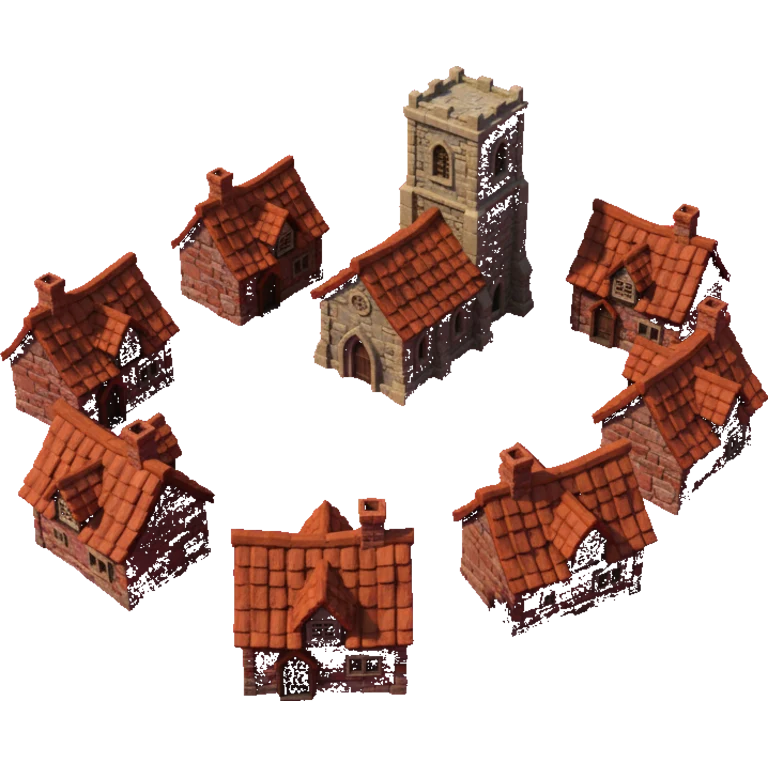
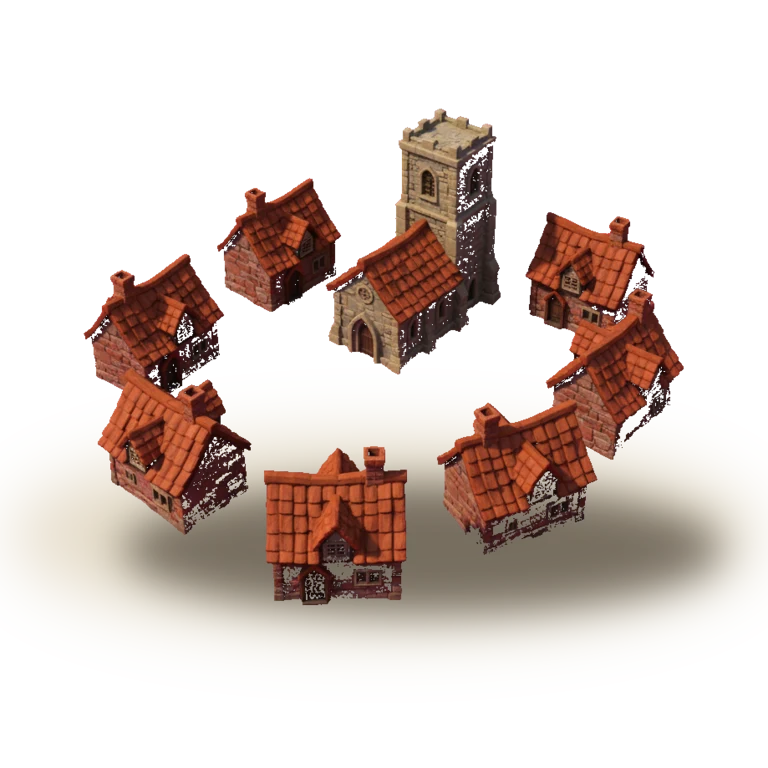
feat(assets): the ground holds its villages down
A place drawn on a painted field floated, and on a slope it looked
pitched. The land now has a lie of its own, lit from over the reader's
left shoulder; each town's ground is levelled so none stands on a
hillside; every link arrives as a pair of cart tracks; and each village
carries its cleared earth and the shadow it throws, fitted to its own
footprint.

diff --git a/tools/map/README.md b/tools/map/README.md
@@ -109,6 +109,27 @@ Before this there was one painting for all twenty-two towns, drawn at the
 width of the card block and faded to 62 %: it read as a grey smudge. A
 place is now wider than the cards it stands behind and drawn at 84 %.
 
+## Anchoring a place
+
+A village drawn straight onto a terrain floats, and on a slope it looks
+pitched. Three things hold it down, all in `compose-canal.sh` except the
+last:
+
+* `RELIEF` lays a height field of our own making — plasma at a coarse
+  grain, blurred into rolling ground — lit from over the reader's left
+  shoulder and applied as `2·shade·land`, which leaves the overall tone
+  where it was. `RELIEF_WEIGHT` is gone; `RELIEF_SPREAD` sets how firmly
+  the ground is felt, `RELIEF_LIGHT` the sun's bearing, `RELIEF_SEED` the
+  hills themselves. Note that ImageMagick's own `soft-light` is not
+  Photoshop's and blows a mid-grey map out to white — hence the arithmetic.
+* Each town's ground is levelled: the shade map is brought back to neutral
+  in a disc around it, so no village ends up standing on a hillside.
+* Every link arrives as a pair of pale cart tracks, so a place reads as
+  somewhere roads meet.
+* The place sprites themselves carry a cleared patch of earth and a
+  contact shadow thrown down and to the right, baked onto the drawing's own
+  footprint (`tools/assets/map/villages/place-*-anchored.png`).
+
 ## A second board
 
 `app/src/game/boards/` holds the geography: `midlands.ts`, `veneto.ts`, and
